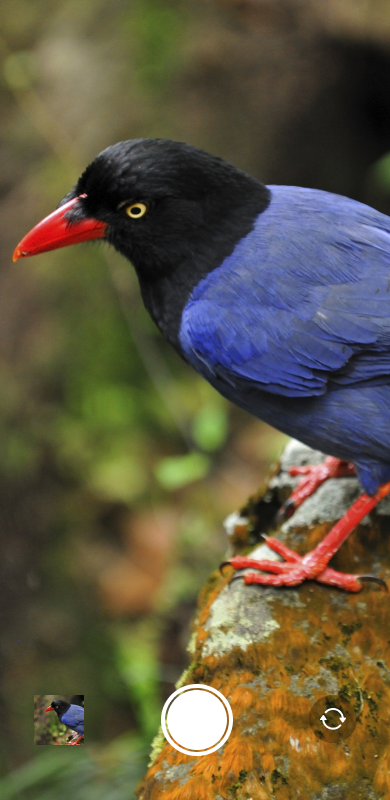
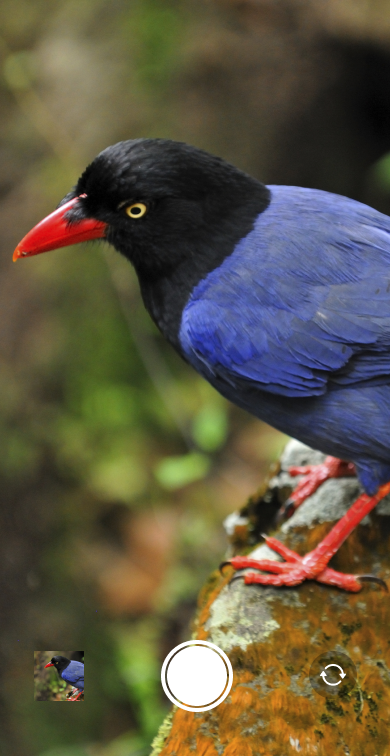
166

diff --git a/css/activity_eye_1.css b/css/activity_eye_1.css
@@ -4,7 +4,7 @@ body {
     margin-right: auto;
     padding: 0;
     width: 100%;
-    height: 800px;
+    height: 756px;
     font-family: -apple-system, BlinkMacSystemFont, 'Segoe UI', Roboto, Oxygen, Ubuntu, Cantarell, 'Open Sans', 'Helvetica Neue', sans-serif;
     background-color: #5B8168;
     overflow: hidden;
@@ -46,11 +46,11 @@ h1 {
 .box {
     background-image: url(../img/activity_ear_1_background.png);
     background-size: 100% 100%;
-    height: 800px;
+    height: 756px;
 }
 
 .box-1-2 {
     background-image: url(../img/activity_ear_1_background1-2.png);
     background-size: 100% 100%;
-    height: 800px;
+    height: 756px;
 }
